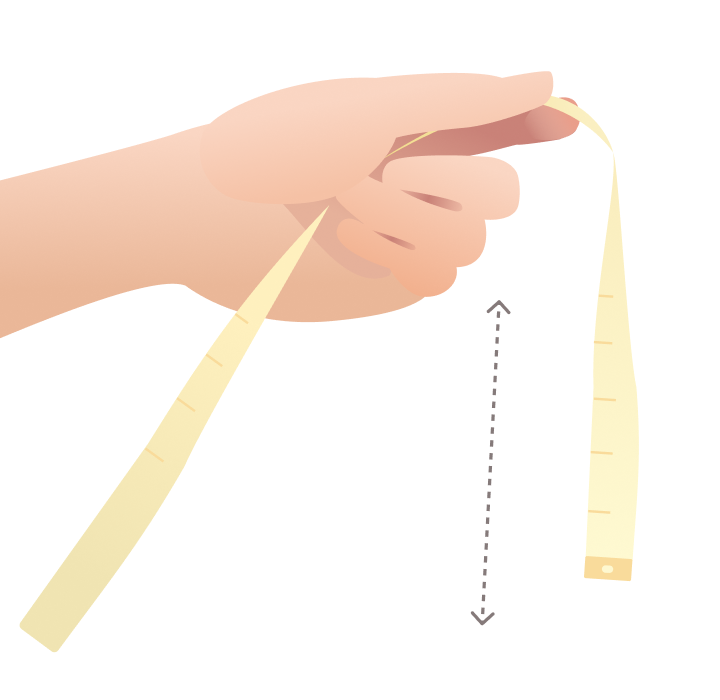
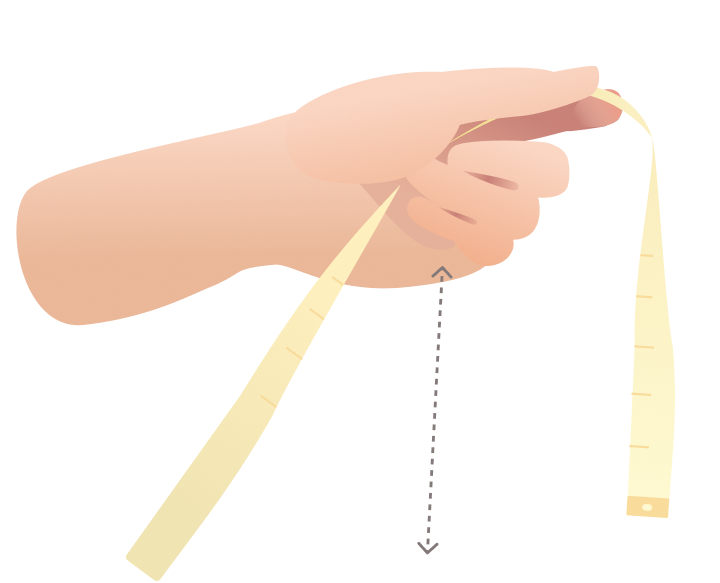
updated layout

diff --git a/index.html b/index.html
@@ -15,19 +15,18 @@
     </head>
     <body>
         <div class = "links">
-            <a href = "https://stetson.com" style = "width: auto;"><div class = "site-link"></div></a>
+            <a href = "https://stetson.com" style = "width: auto;margin-right:10px;"><div class = "site-link"></div></a>
             <a href = "" style = "width: auto;"><div class = "share-button">Share</div></a>
         </div>
 
         <div class = "menu-screen">
             <ul>
-                <a href = "#hand"><li>Determine Your Hat Size</li></a>
-                <a href = "#hat1"><li>Open Road Royal Deluxe vs 6X</li></a>
-                <a href = "#bag"><li>How to Pack a Crushable Hat</li></a>
+                <a href = "#section1"><li>Determine Your Hat Size</li></a>
+                <a href = "#section2"><li>Open Road Royal Deluxe vs 6X</li></a>
+                <a href = "#section3"><li>How to Pack a Crushable Hat</li></a>
                 <a href = "#section4"><li>How to Pack a Regular Hat</li></a>
                 <a href = "#section5"><li>How to Wear a Hat</li></a>
-                <a href = "#section6"><li>Hat Profiles</li></a>
-                <a href = "#section7"><li>Stetson Anatomy</li></a>
+                <a href = "#section6"><li>Hat Styles</li></a>
                 <a href = "#section8"><li>How to Attach Chin Straps</li></a>
             </ul>
         </div>
@@ -67,14 +66,17 @@
             <div class = "logo"></div>
         </div>
 
+
         <div class = "title-block" id = "section1">
             <h1>Determine Your Hat Size</h1>
             <h2>01</h2>
             <div class = "illust" id = "hand" style = "background-image: url('images/graphic-hand.png');"></div>
+
+            <div class = "info-block"><div class = "text-block">
+                Wrap a measuring tape around your head. Press firmly, but not too tightly so it is flush against your skin. It should rest about 1/8 inch above your ear. Once you have the measurement, reference the hat sizing chart below to find the correct size. If you are in between sizes, you can insert sizers beneath the sweat band for a better fit.
+            </div></div>
         </div>
-        <div class = "info-block"><div class = "text-block">
-            Wrap a measuring tape around your head. Press firmly, but not too tightly so it is flush against your skin. It should rest about 1/8 inch above your ear. Once you have the measurement, reference the hat sizing chart below to find the correct size. If you are in between sizes, you can insert sizers beneath the sweat band for a better fit.
-        </div></div>
+        
 
         <div class = "size-chart">
             <div class = "measurements">
@@ -127,26 +129,38 @@
             </div>
         </div>
 
+
         <div class = "title-block" id = "section2">
             <h1>Open Road Deluxe vs 6X</h1>
             <h2>02</h2>
-            <div class = "illust" id = "hat1" style = "height:100%;width:100%;background-image: url('images/open-road.png');"></div>
-            <div class = "illust" id = "hat2" style = "height:100%;width:100%;left:auto;right:-25vw;background-image: url('images/6x.png');"></div>
+
+            <div class = "illust" id = "hat1" style = "background-image: url('images/6x.png');"></div>
+            <div class = "info-block"><div class = "text-block">
+                The open road 6X is the classic western style featuring a firm, fur felt finish. The open road royal deluxe is the new dress style featuring a lighter, softer fur felt finish.
+            </div></div>
         </div>
-        <div class = "info-block"><div class = "text-block">
-            The open road 6X is the classic western style featuring a firm, fur felt finish. The open road royal deluxe is the new dress style featuring a lighter, softer fur felt finish.
-        </div></div>
+        
 
         <div class = "title-block" id = "section3">
             <h1>How to Pack a Crushable Hat</h1>
             <h2>03</h2>
-            <div class = "illust" id = "bag" style = "height:100%;width:100%;background-image: url('images/bag.png');"></div>
+            <div class = "illust" id = "bag" style = "background-image: url('images/bag.png');"></div>
+
+            <div class = "info-block"><div class = "text-block">
+                Before packing, make sure your hat is completely dry. Then, take your hat and push the shape out of the crown. Next, fold the hat into itself so it lies flat. Begin rolling the hat gently, and pack it into your bag.
+                <div style = "width: 100%;height:200px;margin-top:40px;background-image: url('images/folding-diagram.svg');background-repeat: no-repeat;background-position:center;background-size: contain;"></div>
+            </div></div>
         </div>
-        <div class = "info-block"><div class = "text-block">
-            Before packing, make sure your hat is completely dry. Then, take your hat and push the shape out of the crown. Next, fold the hat into itself so it lies flat. Begin rolling the hat gently, and pack it into your bag.
-            <div style = "width: 100%;height:200px;margin-top:40px;background-image: url('images/folding-diagram.svg');background-repeat: no-repeat;background-position:center;background-size: contain;"></div>
-        </div></div>
-            
+        
+        <div class = "title-block" id = "section4">
+            <h1>How to Pack a Regular Hat</h1>
+            <h2>04</h2>
+            <div class = "illust" id = "bag" style = "background-image: url('images/suitcase.png');"></div>
+
+            <div class = "info-block"><div class = "text-block">
+                Start by filling your suitcase with items to support the brim of the hat. You can use shoes or something else that is sturdy. Then place the hat on top, facing upside down and fill the crown with clothing, such as socks to prevent it from being crushed.
+            </div></div>
+        </div>
 
         <script>
 		    $(window).scroll(function() {

diff --git a/style.css b/style.css
@@ -1,7 +1,7 @@
 :root {
     --primary : #F1EEE9;
     --secondary: #E7DFD2;
-    --tertiary: #3F1E1F;
+    --tertiary: #3c3737;
 }
 
 ::selection {
@@ -37,11 +37,11 @@ body {
 }
 
 .share-button {
-    background-color: #3C3737;
+    background-color: #ffffff78;
     height: 42px;
     width: 120px;
-    border-radius: 5px;
-    color: white;
+    border-radius: 10px;
+    color: #B65030;
     display: flex;
     align-items: center;
     justify-content: center;
@@ -49,7 +49,7 @@ body {
 }
 
 .share-button:hover {
-    background-color:#625757;
+    background-color: white;
 }
 
 .menu-button {
@@ -164,12 +164,14 @@ li:hover {
     background-position: top;
     background-repeat: repeat-x;
     height: 100%;
-    margin-bottom: 200px;
+    margin: 40px;
     width: auto;
     margin-bottom: 100px;
     display: flex;
     align-items: center;
     justify-content: center;
+    border-radius: 20px;
+    overflow:hidden;
 }
 
 .arrow {
@@ -200,29 +202,38 @@ li:hover {
 }
 
 .site-link {
+    background-color: #ffffff78;
+    height: 42px;
+    width: 42px;
+    border-radius: 10px;
+    color: #B65030;
+    display: flex;
+    align-items: center;
+    justify-content: center;
+    transition: 0.3s;
     background-image: url('images/site_link.svg');
-    background-size:contain;
-    background-repeat:no-repeat;
-    height:36px;
-    width:36px;
-    margin-right: 40px;
+    background-repeat: no-repeat;
+    background-position:center;
+    background-size: 60%;
+}
+
+.site-link:hover {
+    background-color:white;
 }
 
 h1 {
     text-align: center;
-    position: absolute;
-    margin:auto;
     color: var(--tertiary);
     font-size: 3em;
     z-index: 2;
+    margin: 40px;
     mix-blend-mode: difference;
 }
 
 h2 {
-    position: relative;
     font-size: 2em;
     padding:10px;
-    width: 100%;
+    width: auto;
     text-align: right;
     color: var(--secondary);
     top:0;
@@ -230,8 +241,8 @@ h2 {
 }
 
 .title-block {
-    height: 400px;
-    width: 50%;
+    height: auto;
+    width: 60%;
     border-radius: 20px;
     border: 1px solid var(--tertiary);
     margin:auto;
@@ -239,35 +250,32 @@ h2 {
     align-items: center;
     justify-content: center;
     flex-wrap: wrap;
-    flex-direction: row-reverse;
+    flex-direction: column;
     flex-shrink: 0;
     flex-grow: 0;
-    padding: 20px;
+    padding: 40px;
+    overflow:hidden;
 }
 
 .illust {
-    height: 150%;
-    width: 150%;
+    height: 25vw;
+    width: 25vw;
     position: relative;
-    top: -100px;
-    left: -25vw;
     background-repeat: no-repeat;
     background-position: center;
     background-size: contain;
-    z-index: 1;
 }
 
 .info-block {
     font-size: 1em;
     line-height: 150%;
-    display:flex;
+    display: flex;
     align-items: center;
     justify-content: center;
     background-color: var(--primary);
     height: auto;
-    width: 50%;
+    width: auto;
     border-radius: 20px;
-    margin: auto ;
     padding: 20px;
 }
 
@@ -292,10 +300,10 @@ h2 {
 .size-chart {
     font-size: 1em;
     font-family: Lora, serif;
-    width: 50%;
+    width: 60%;
     height: auto;
     margin: auto;
-    padding: 20px;
+    padding: 40px;
     grid-gap: 40px;
     border: 2px solid var(--secondary);
     border-radius: 20px;
@@ -365,11 +373,15 @@ h2 {
 }
 
 .links {
-    display: flex;justify-content:center;align-items:center;position: absolute;top:60px;right:60px;
+    display: flex;justify-content:center;align-items:center;position: absolute;top:60px;right:120px;
 }
 
-.title-block, .info-block, .size-chart {
-    margin-bottom: 200px;
+.title-block, .size-chart {
+    margin-bottom: 10%;
+}
+
+.size-chart {
+    margin-bottom: 20%;
 }
 
 @media (max-width:1024px) {
@@ -386,6 +398,11 @@ h2 {
 }
 
 @media (pointer: coarse) {
+    .illust {
+        height:50vw;
+        width:50vw;
+        left:0;
+    }
     .hero {
         background-size:cover;
         background-position:center;
@@ -401,6 +418,7 @@ h2 {
         display: none;
     }
     .links {
+        display: none;
         top: 50px;
         right: 50px;
     }
@@ -423,8 +441,8 @@ h2 {
     .title-block {
         border-width: 2;
     }
-    .title-block,.info-block,.size-chart {
-        width: 90%;
+    .title-block,.size-chart {
+        width: 80%;
     }
     .info-block {
         font-size: 2em;

diff --git a/js/animations.js b/js/animations.js
@@ -45,7 +45,7 @@ function openMenu() {
 if(!isMobile()) {
 
     gsap.from("#hand", {
-        xPercent: -50,
+        yPercent: 50,
         ease: "none",
         scrollTrigger: {
           trigger: "#section1",
@@ -54,23 +54,16 @@ if(!isMobile()) {
     });
     
     gsap.from("#hat1", {
-        xPercent: -50,
+        yPercent: 50,
         ease: "none",
         scrollTrigger: {
           trigger: "#section2",
           scrub: true
         }, 
     });
-    gsap.from("#hat2", {
-        xPercent: +50,
-        ease: "none",
-        scrollTrigger: {
-          trigger: "#section2",
-          scrub: true
-        }, 
-    });
+
     gsap.from("#bag", {
-        xPercent: -50,
+        yPercent: 50,
         ease: "none",
         scrollTrigger: {
           trigger: "#section3",
@@ -80,14 +73,13 @@ if(!isMobile()) {
     
     gsap.to(".logo", {opacity: 0,yPercent: -100,scrollTrigger: {trigger: ".title-block",scrub: true}});
     
-    gsap.from(".info-block", {opacity: 0,yPercent: -70,scrollTrigger: {trigger: ".info-block",scrub: true}});
     gsap.from(".size-chart", {opacity: 0,yPercent: -70,scrollTrigger: {trigger: ".size-chart",scrub: true}});
     gsap.to(".clouds", {
         duration: 600,
         ease: "none",
-        backgroundPosition: "+=500", //move each box 500px to right
+        backgroundPosition: "+=500",
         modifiers: {
-          x: gsap.utils.unitize(x => parseFloat(x) % 500) //force x value to be between 0 and 500 using modulus
+          x: gsap.utils.unitize(x => parseFloat(x) % 500)
         },
         repeat: -1
       });
